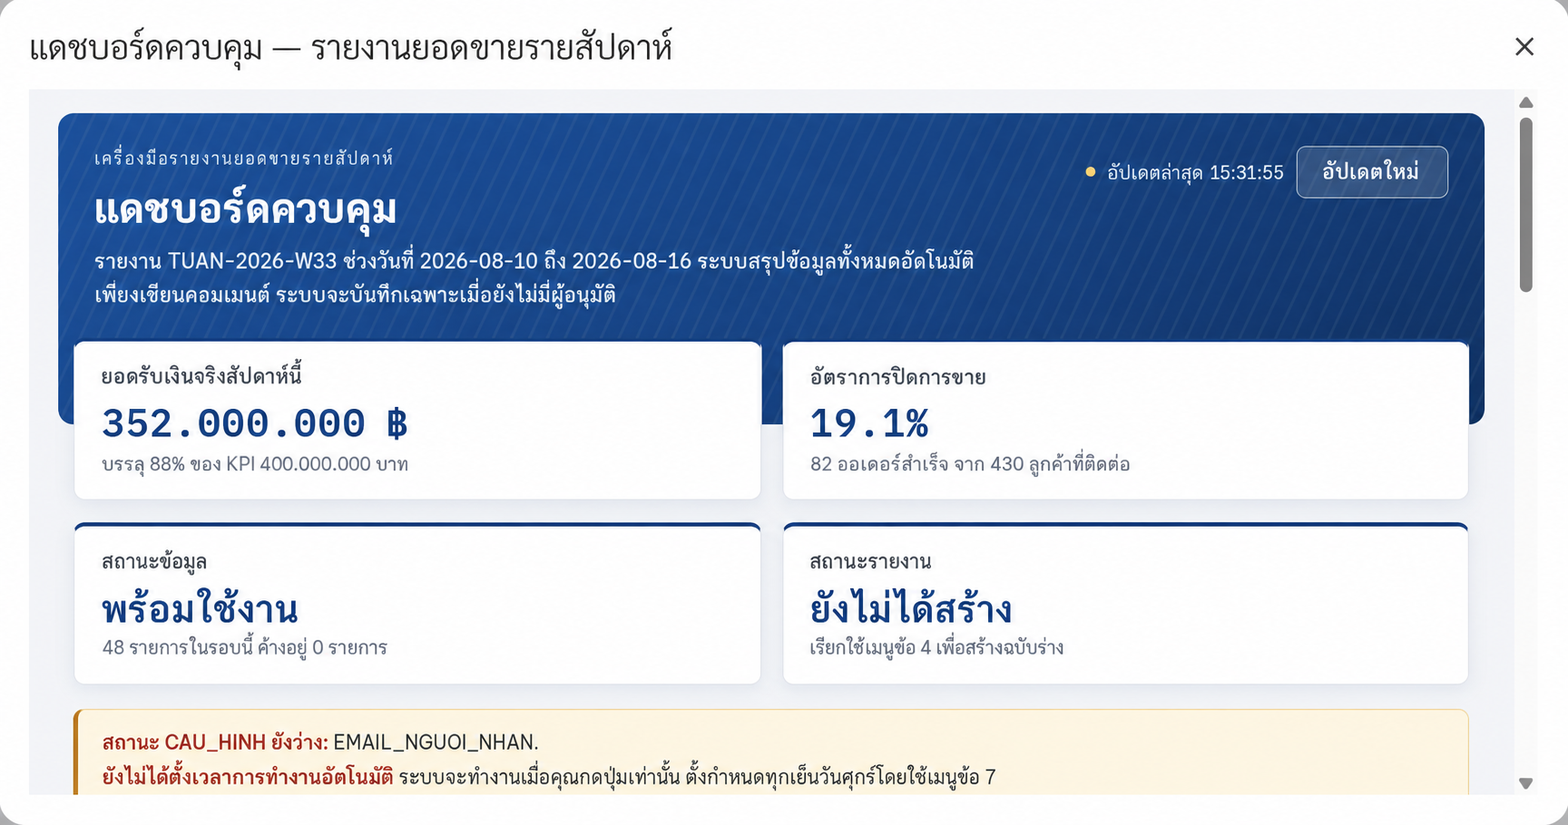
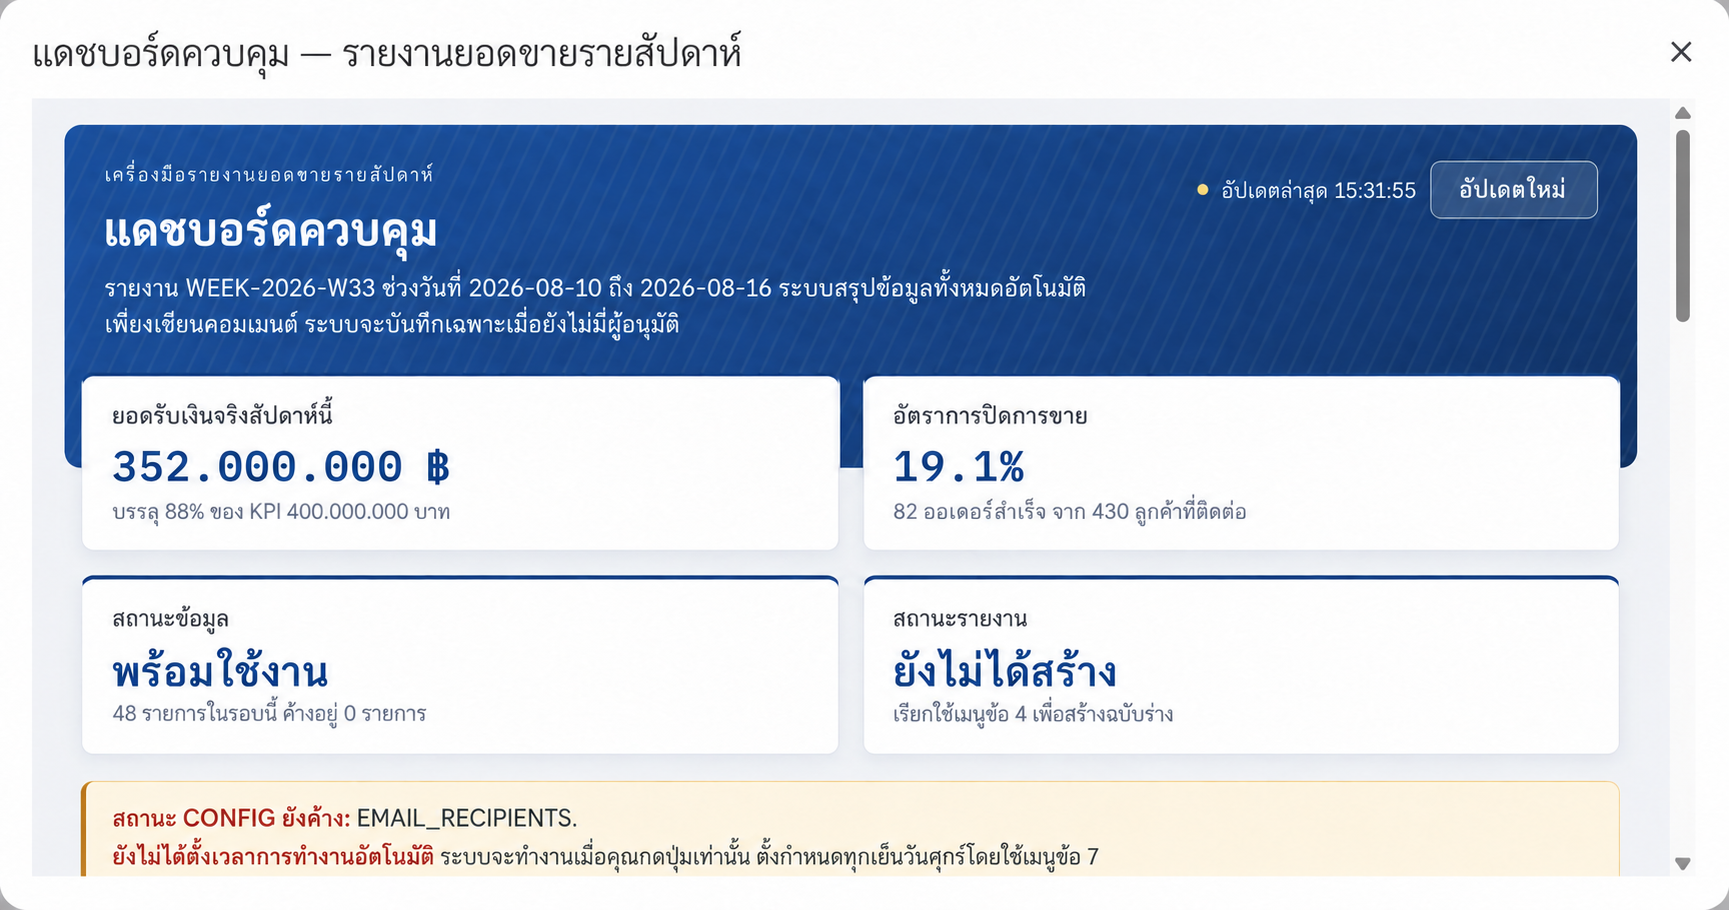
Fully localize model 4 prompt and images

diff --git a/app/prompt4.ts b/app/prompt4.ts
@@ -1,0 +1,43 @@
+export const promptText4 = `ฉันต้องการสร้างระบบรายงานยอดขายรายสัปดาห์สำหรับธุรกิจขนาดเล็กด้วย Google Sheets และ Google Apps Script ระบบต้องตรวจสอบข้อมูลโดยอัตโนมัติ คำนวณตัวชี้วัดทั้งหมดด้วยโค้ด ใช้ AI เฉพาะการเขียนคำอธิบาย กำหนดให้ผู้จัดการตรวจและอนุมัติก่อนส่งอีเมล และมีแดชบอร์ดที่อ่านง่าย
+
+บริบทการติดตั้ง: ฉันจะสร้าง Google Sheets เปล่า เปิด Apps Script จากสเปรดชีตนั้น และวางโค้ดลงไป โปรดส่งคืนไฟล์ที่สมบูรณ์จำนวนสามไฟล์ในคำตอบเดียว โดยแยกแต่ละไฟล์เป็นบล็อกโค้ดและระบุชื่อให้ชัดเจน ได้แก่ Main.gs สำหรับตรรกะหลักและเมนู, dashboard.gs สำหรับฝั่งเซิร์ฟเวอร์ของแดชบอร์ด และ dashboard.html สำหรับส่วนติดต่อผู้ใช้
+
+ข้อกำหนดด้านสถาปัตยกรรม:
+- ใช้ SpreadsheetApp.getActiveSpreadsheet() และห้ามใช้ SpreadsheetApp.create()
+- ให้ Main.gs เป็นไฟล์เดียวที่ประกาศ onOpen และสร้างเมนู “รายงานประจำสัปดาห์” เมนูประกอบด้วย เปิดแดชบอร์ด; 1. สร้างโครงสร้างชีต; 2. ตรวจสอบข้อมูลประจำสัปดาห์; 3. คำนวณตัวชี้วัดประจำสัปดาห์; 4. สร้างความเห็นด้วย AI; 5. ส่งรายงานที่อนุมัติแล้ว; 6. ทดสอบการเชื่อมต่อ API; 7. ตั้งเวลาทำงานอัตโนมัติ
+- อ่านคีย์ API จาก PropertiesService.getScriptProperties() โดยใช้ชื่อ OPENAI_API_KEY เท่านั้น ห้ามเขียนคีย์ลงในโค้ดหรือสเปรดชีต
+- ใช้ OpenAI Responses API ทุกคำสั่ง UrlFetchApp.fetch ต้องตั้ง muteHttpExceptions: true หาก API ผิดพลาด ให้แสดงรหัส HTTP พร้อมเนื้อหาตอบกลับเดิม อ่าน MODEL และ MAX_OUTPUT_TOKENS จาก CONFIG โดยใช้ค่าเริ่มต้น gpt-5.6 และกำหนด MAX_OUTPUT_TOKENS อย่างน้อย 4000
+- ค้นหาคอลัมน์ด้วยชื่อหัวตาราง ห้ามใช้ตำแหน่งคอลัมน์แบบตายตัว ชื่อฟังก์ชัน ตัวแปร ไฟล์ ชีต คอลัมน์ สถานะ และคีย์กำหนดค่าให้ใช้ภาษาอังกฤษ ส่วนคำอธิบาย ข้อความแจ้งเตือน อีเมล และคำสั่งที่ส่งให้ AI ให้ใช้ภาษาไทย
+- ฟังก์ชันทั้งหมดที่ dashboard.html เรียกต้องมีอยู่จริงในไฟล์ .gs เมื่อจบคำตอบให้แสดงตารางจับคู่ชื่อฟังก์ชัน ไฟล์ที่ประกาศ และหน้าที่ของฟังก์ชัน
+
+สร้างชีตระบบห้าชีตตามลำดับและใช้ชื่อคอลัมน์ภาษาอังกฤษดังนี้:
+1. CONFIG: KEY, VALUE, NOTES
+2. DAILY_DATA: DATE, EMPLOYEE, NEW_LEADS, CONTACTED_LEADS, APPOINTMENTS, SUCCESSFUL_ORDERS, RECOGNIZED_REVENUE, CASH_COLLECTED, CANCELLED_ORDERS, RETURNED_ORDERS, NOTES
+3. WEEKLY_METRICS: WEEK_ID, START_DATE, END_DATE, NEW_LEADS, CONTACTED_LEADS, APPOINTMENTS, SUCCESSFUL_ORDERS, RECOGNIZED_REVENUE, CASH_COLLECTED, CANCELLED_ORDERS, RETURNED_ORDERS, CONTACT_RATE, CLOSE_RATE, CANCELLATION_RATE, RETURN_RATE, WEEKLY_KPI, KPI_ACHIEVEMENT, VS_PREVIOUS_WEEK, DATA_STATUS, CALCULATED_AT
+4. AI_REPORT: REPORT_ID, WEEK_ID, CREATED_AT, OVERVIEW, WARNINGS, RECOMMENDED_ACTIONS, QUESTIONS_FOR_MANAGER, STATUS, APPROVER, APPROVED_AT, SENT_AT, RECIPIENTS, RAW_JSON
+5. SYSTEM_LOG: TIME, FUNCTION, WEEK_ID, STATUS, DETAILS, REPORT_ID
+
+เมื่อสร้างโครงสร้าง ให้จัดรูปแบบแถวหัวตาราง ตรึงแถวแรก และสร้างรายการแบบเลือกสำหรับ STATUS ได้แก่ NEEDS_DATA_FIX, PENDING_APPROVAL, APPROVED_TO_SEND, SENT และ ERROR พร้อมสร้างค่ากำหนดเริ่มต้นใน CONFIG ได้แก่ COMPANY_NAME, CUSTOMER_FILE_ID, CUSTOMER_SHEET_NAME, REPORT_PERIOD, WEEKLY_KPI, MAX_EMPTY_CELL_RATE, CASH_COLLECTED_DROP_THRESHOLD, CLOSE_RATE_DROP_THRESHOLD, EMAIL_RECIPIENTS, MODEL, MAX_OUTPUT_TOKENS, EMAILS_PER_RUN, SYSTEM_PROMPT, USER_PROMPT, EMAIL_SUBJECT และ EMAIL_BODY
+
+REPORT_PERIOD รองรับ CURRENT_WEEK, PREVIOUS_WEEK หรือวันที่รูปแบบ yyyy-MM-dd สำหรับเรียกใช้รายงานของสัปดาห์เก่า สัปดาห์เริ่มวันจันทร์และสิ้นสุดวันอาทิตย์ หาก REPORT_PERIOD เป็นวันที่คงที่ ฟังก์ชันตามเวลาต้องข้ามการทำงานเพื่อไม่ให้สร้างรายงานของสัปดาห์เดิมซ้ำ
+
+ฟังก์ชันที่ต้องทำงานครบ:
+1. สร้างชีต คอลัมน์ รายการแบบเลือก และค่ากำหนดเริ่มต้นโดยไม่ลบข้อมูลที่มีอยู่ และต้องรันซ้ำได้อย่างปลอดภัย
+2. อ่าน DAILY_DATA จากไฟล์ปัจจุบัน หรืออ่าน Google Sheets อื่นโดยใช้ CUSTOMER_FILE_ID และ CUSTOMER_SHEET_NAME แดชบอร์ดต้องรับได้ทั้ง URL และรหัสไฟล์ ตรวจสิทธิ์เข้าถึง แล้วบันทึกรหัสลง CONFIG
+3. ตรวจสอบข้อมูลของสัปดาห์ก่อนคำนวณ ได้แก่ วันที่อ่านไม่ได้ วันที่ในอนาคต ชื่อพนักงานว่าง ค่าติดลบ แถวซ้ำตาม DATE กับ EMPLOYEE และสัดส่วนช่องบังคับว่างเกิน MAX_EMPTY_CELL_RATE ให้ข้ามข้อมูลนอกช่วงเพราะไฟล์อาจเก็บหลายสัปดาห์ หากไม่มีข้อมูลในช่วงที่เลือก ให้แนะนำให้เปลี่ยน REPORT_PERIOD และบันทึกผลตรวจสอบกับข้อผิดพลาดลง SYSTEM_LOG
+4. คำนวณผลรวมและอัตรารายสัปดาห์ทั้งหมดด้วยโค้ด ห้ามให้ AI คำนวณ หากตัวหารเป็นศูนย์ให้เว้นอัตรานั้นและบันทึกคำเตือน ดึงหรือคำนวณสัปดาห์ก่อนเพื่อเปรียบเทียบ NEW_LEADS, SUCCESSFUL_ORDERS, CASH_COLLECTED และ CLOSE_RATE จากนั้นเพิ่มหรืออัปเดตแถว WEEK_ID ที่ถูกต้องใน WEEKLY_METRICS
+5. สร้างความเห็นด้วย AI เฉพาะเมื่อมีตัวชี้วัดแล้วและยังไม่มีรายงานของสัปดาห์นั้น ส่งเฉพาะตัวชี้วัดที่คำนวณแล้ว ข้อมูลสัปดาห์ก่อน KPI ระดับการบรรลุ KPI และเกณฑ์แจ้งเตือน AI ต้องตอบ JSON ที่มีสี่ฟิลด์เท่านั้น ได้แก่ OVERVIEW, WARNINGS, RECOMMENDED_ACTIONS และ QUESTIONS_FOR_MANAGER ห้าม AI คำนวณหรือสร้างตัวเลขใหม่ ห้ามเดาสาเหตุเมื่อข้อมูลไม่พอ ห้ามระบุชื่อหรือประเมินความสามารถของพนักงาน ห้ามเสนอรางวัลหรือบทลงโทษ แต่ละส่วนไม่เกินห้าประโยคและใช้โทนเป็นกลาง รายงานใหม่ต้องมีสถานะ PENDING_APPROVAL
+6. หาก AI ล้มเหลว ตอบว่าง หรือส่ง JSON ไม่ถูกต้อง ให้บันทึกข้อความเดิมใน RAW_JSON ตั้งสถานะ ERROR เก็บ WEEKLY_METRICS ไว้ และดำเนินระบบส่วนอื่นต่อได้ ผู้จัดการต้องสามารถเขียนความเห็นเองได้
+7. การอนุมัติเกิดขึ้นเมื่อบุคคลจริงกรอกชื่อและกดปุ่มอนุมัติบนแดชบอร์ดเท่านั้น จากนั้นจึงบันทึก APPROVER และ APPROVED_AT และเปลี่ยน PENDING_APPROVAL เป็น APPROVED_TO_SEND ห้ามฟังก์ชันอัตโนมัติเรียกฟังก์ชันอนุมัติ
+8. ส่งอีเมลเฉพาะรายงานสถานะ APPROVED_TO_SEND ที่มี APPROVER และ APPROVED_AT และยังไม่มี SENT_AT อ่านผู้รับจาก EMAIL_RECIPIENTS ตรวจรูปแบบอีเมล และจำกัดไม่เกิน 20 คนต่อการทำงาน ใช้แม่แบบ EMAIL_SUBJECT และ EMAIL_BODY จาก CONFIG และแทนตัวแปรด้วย split().join() เมื่อส่งสำเร็จให้บันทึก SENT_AT และเปลี่ยนสถานะเป็น SENT เพื่อป้องกันการส่งซ้ำ
+9. ทดสอบ API ด้วยคำขอสั้นและแยกกรณี 401 คีย์ไม่ถูกต้อง, 429 เกินโควตาหรือถูกจำกัดอัตรา, 404 ชื่อโมเดลไม่ถูกต้อง และข้อผิดพลาดอื่นอย่างชัดเจน
+10. สร้างทริกเกอร์ runScheduledReport สำหรับช่วงเย็นวันศุกร์โดยไม่สร้างซ้ำ ฟังก์ชันตามเวลาต้องทำตามลำดับ ตรวจข้อมูล → คำนวณตัวชี้วัด → สร้างร่างด้วย AI แล้วหยุดที่ PENDING_APPROVAL ห้ามอนุมัติหรือส่งอัตโนมัติ หากมีข้อผิดพลาดให้บันทึกใน SYSTEM_LOG และสามารถแจ้งผู้รับผิดชอบคนแรกทางอีเมลได้
+
+ข้อกำหนดของแดชบอร์ด:
+- openDashboard ใช้ HtmlService.createHtmlOutputFromFile('dashboard') และเปิดหน้าต่างขนาดใหญ่
+- getDashboardData อ่านเฉพาะข้อมูลจากสเปรดชีตเมื่อโหลดหน้า ห้ามเรียก Drive หรือ API ระหว่างเปิดแดชบอร์ด
+- แสดงช่วงรายงาน KPI หลัก คำเตือน งานถัดไป ผลตรวจข้อมูล ตัวชี้วัดรายสัปดาห์ เนื้อหารายงาน AI ทั้งสี่ส่วน สถานะ และผู้อนุมัติ
+- มีปุ่มรีเฟรช ปุ่มดำเนินงานถัดไปผ่าน switch ที่ระบุรายการชัดเจนและห้ามใช้ eval ช่องกรอกชื่อพร้อมปุ่มอนุมัติ ช่องเชื่อมไฟล์ข้อมูลลูกค้า และช่องบันทึก OPENAI_API_KEY ลง Script Properties
+- ต้องมีฟังก์ชัน openDashboard, getDashboardData, runAction, approveReport, saveCustomerFile และ saveApiKey
+
+สุดท้าย โปรดอธิบายโดยละเอียดว่าต้องสร้าง Google Sheets อย่างไร เปิด Apps Script ที่ใด สร้างและวางไฟล์ทั้งสามอย่างไร ชื่อไฟล์ HTML ที่ต้องตรงกับ createHtmlOutputFromFile ฟังก์ชันแรกที่ต้องรันเพื่อขอสิทธิ์ วิธีเติม CONFIG และบันทึก OPENAI_API_KEY ลำดับการตรวจข้อมูล คำนวณตัวชี้วัด สร้างความเห็น อนุมัติ และส่งรายงาน วิธีเปิดแดชบอร์ดและตั้งเวลาทำงาน ตลอดจนวิธีตรวจผลหลังแต่ละขั้นตอนและแก้ข้อผิดพลาดที่พบบ่อย ห้ามย่อโค้ด ห้ามละฟังก์ชันช่วย และห้ามใช้ข้อความแทนโค้ด เช่น “ทำต่อในลักษณะเดียวกัน”`;

diff --git a/app/page.tsx b/app/page.tsx
@@ -6,7 +6,7 @@ import { upload as uploadToBlob } from "@vercel/blob/client";
 import { promptText } from "./knowledge";
 import { promptText2 } from "./knowledge2";
 import { promptText3 } from "./knowledge3";
-import { promptText4 } from "./knowledge4";
+import { promptText4 } from "./prompt4";
 import { promptText5 } from "./knowledge5";
 import { promptText6 } from "./knowledge6";
 import { model1DetailedGuide } from "./model1-detailed-guide";
